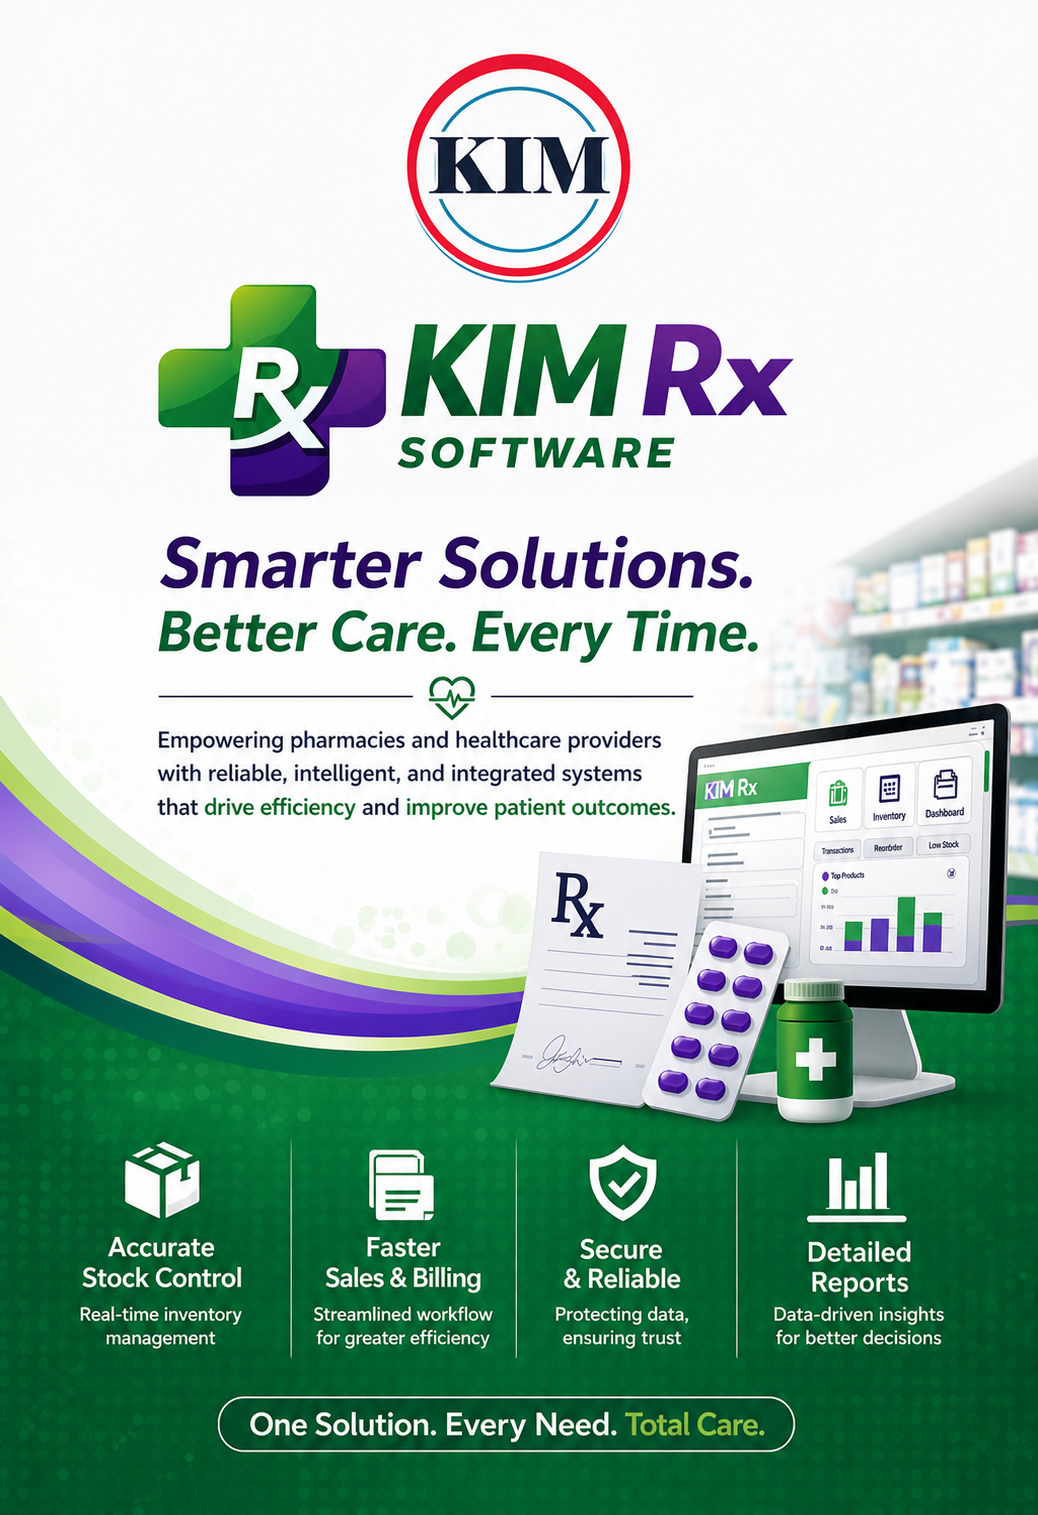
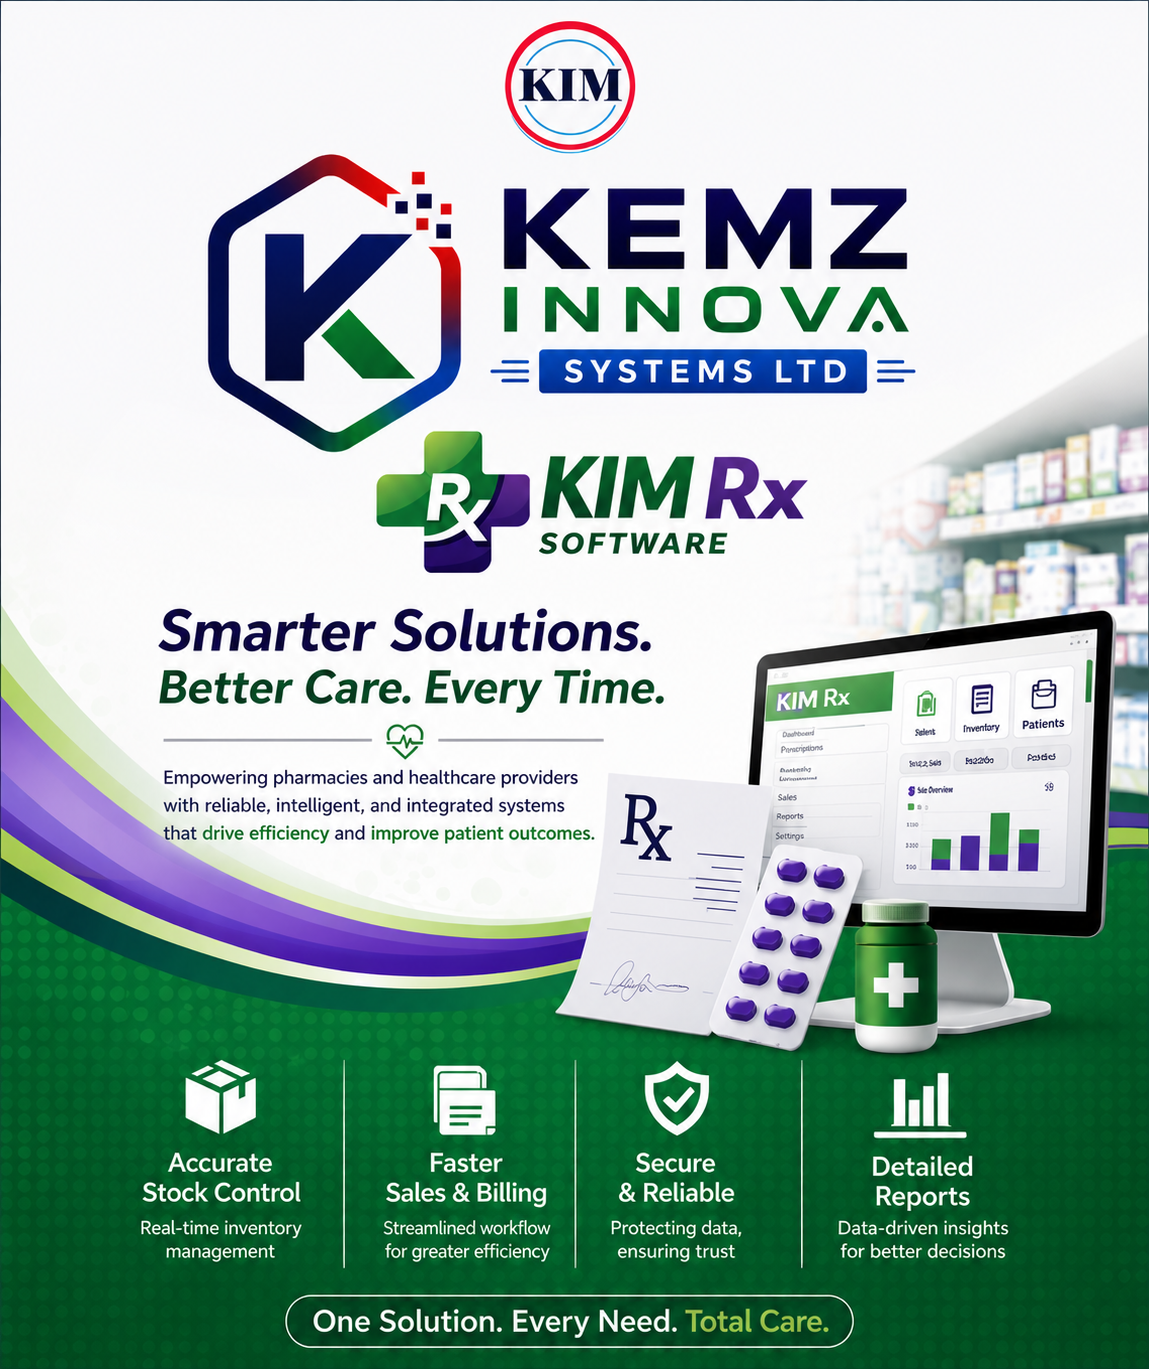
Update KEMZ Innova branding

diff --git a/resources/views/layouts/sidebar.blade.php b/resources/views/layouts/sidebar.blade.php
@@ -646,7 +646,7 @@
 
 <div class="mobile-sidebar-backdrop" id="mobileSidebarBackdrop" onclick="toggleMobileSidebar(false)" hidden></div>
 <footer class="app-shell-footer" data-mounted="0" aria-label="Application footer">
-    <span>&copy; {{ $currentYear }} KIM SOFTWARE SYSTEMS. All rights reserved.</span>
+    <span>&copy; {{ $currentYear }} KEMZ INNOVA SYSTEMS LTD</span>
     <strong>Version {{ $appVersion }}</strong>
 </footer>
 

diff --git a/resources/views/auth/login.blade.php b/resources/views/auth/login.blade.php
@@ -351,9 +351,8 @@
                     <div class="footer-bottom">
 
             <div class="copyright">
-                 &copy; {{ date('Y') }} KIM Software Systems <br>
-                KIM Rx Softwares
-        </div>
+    &copy; {{ date('Y') }} KEMZ INNOVA SYSTEMS LTD
+</div>
 
     <div class="version-text">
         Version 1.0.0
